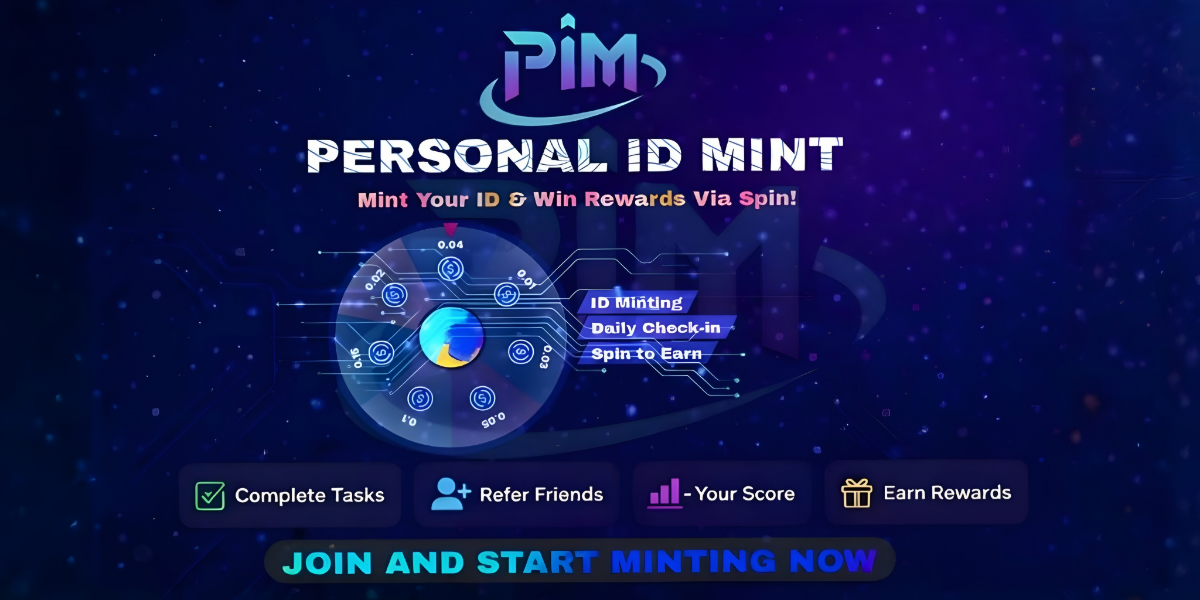
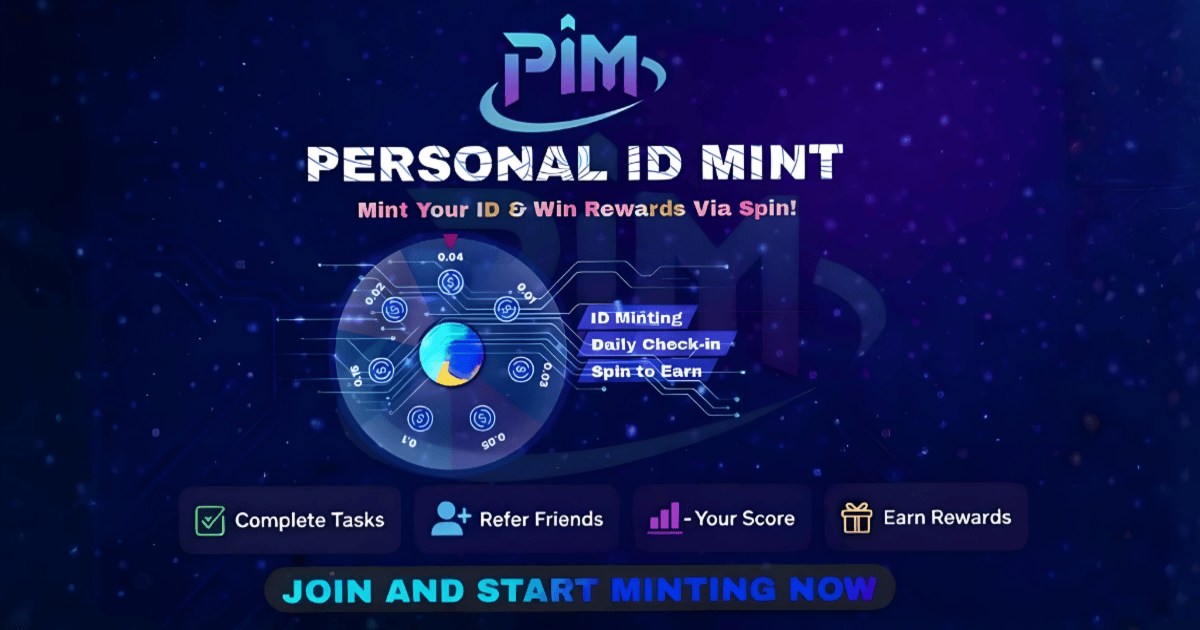
personal id mint diamond release94

diff --git a/app/layout.tsx b/app/layout.tsx
@@ -18,7 +18,7 @@ export async function generateMetadata(): Promise<Metadata> {
       'base:app_id': '694ab226c63ad876c908105e',
       "fc:frame": JSON.stringify({
         version: minikitConfig.miniapp.version,
-        imageUrl: minikitConfig.miniapp.heroImageUrl,
+        imageUrl: minikitConfig.miniapp.ogImageUrl,
         button: {
           title: `Join the ${minikitConfig.miniapp.name}`,
           action: {